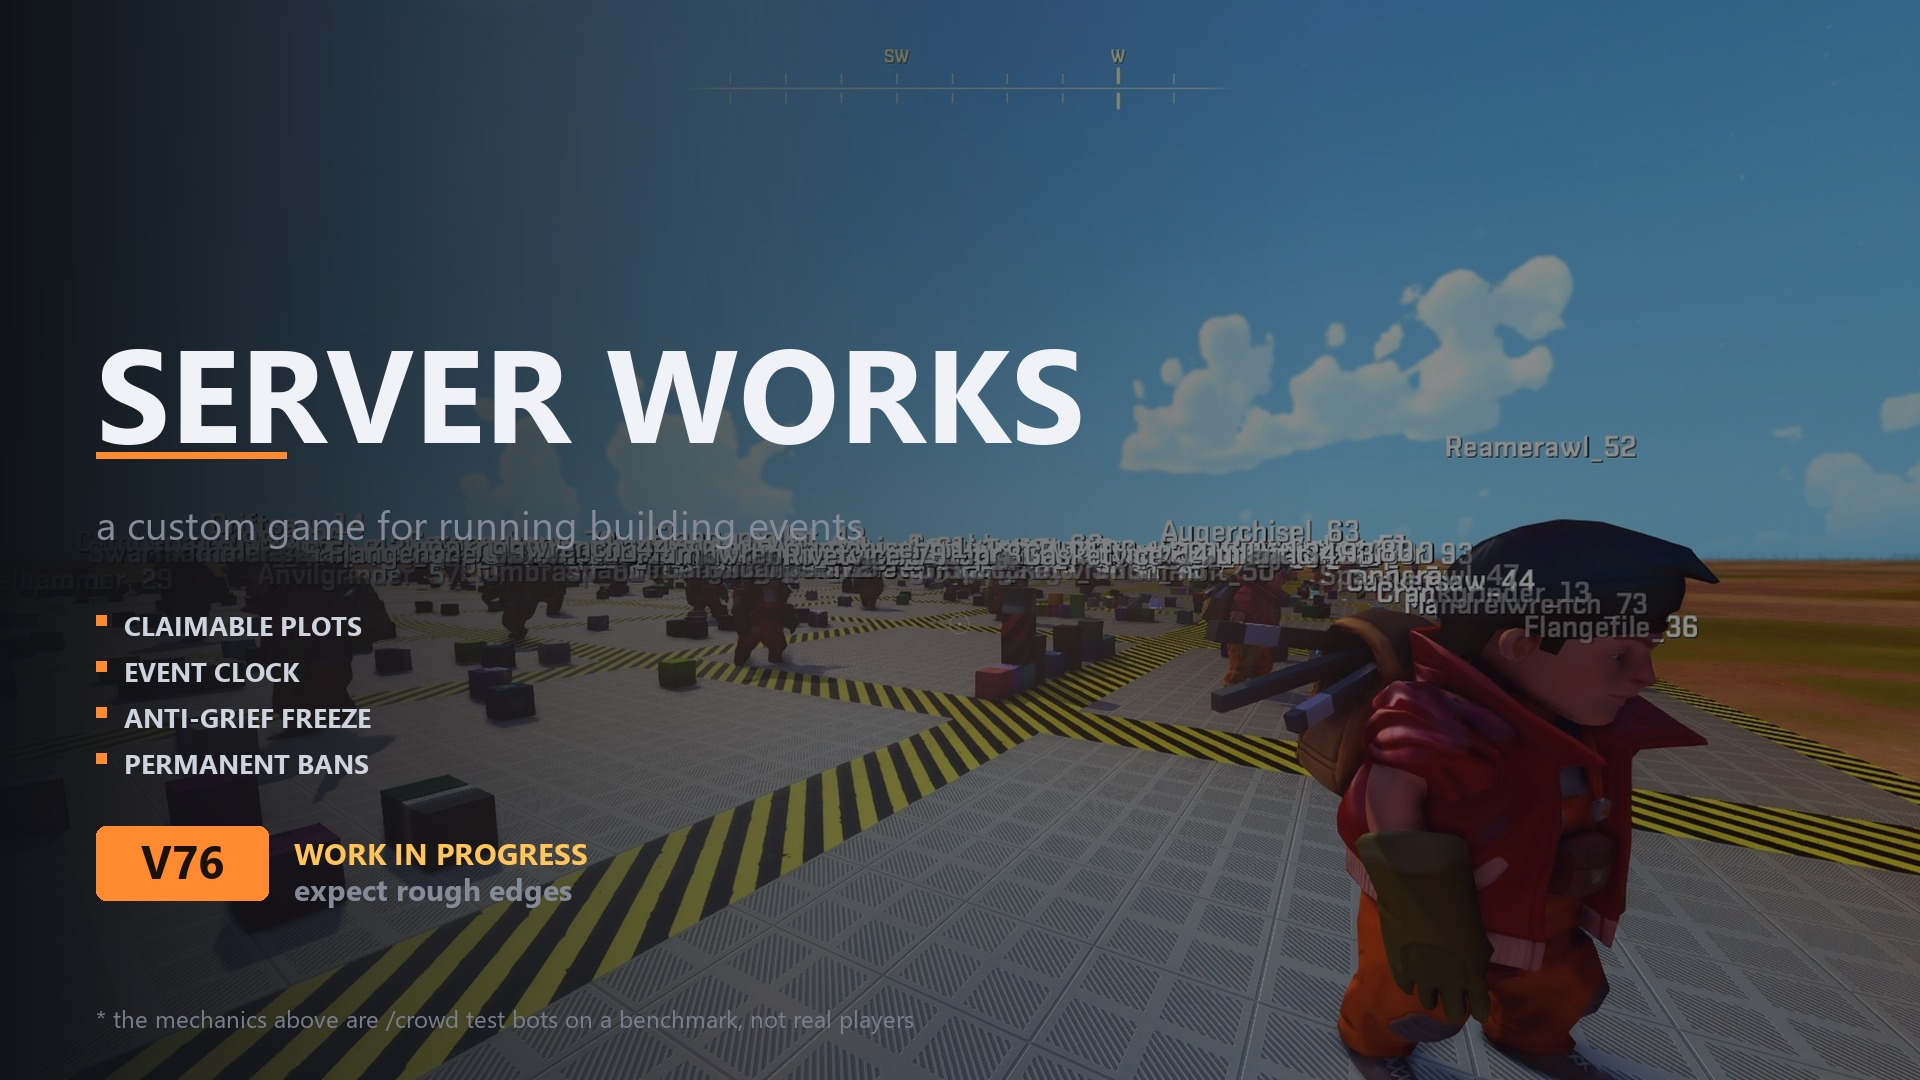
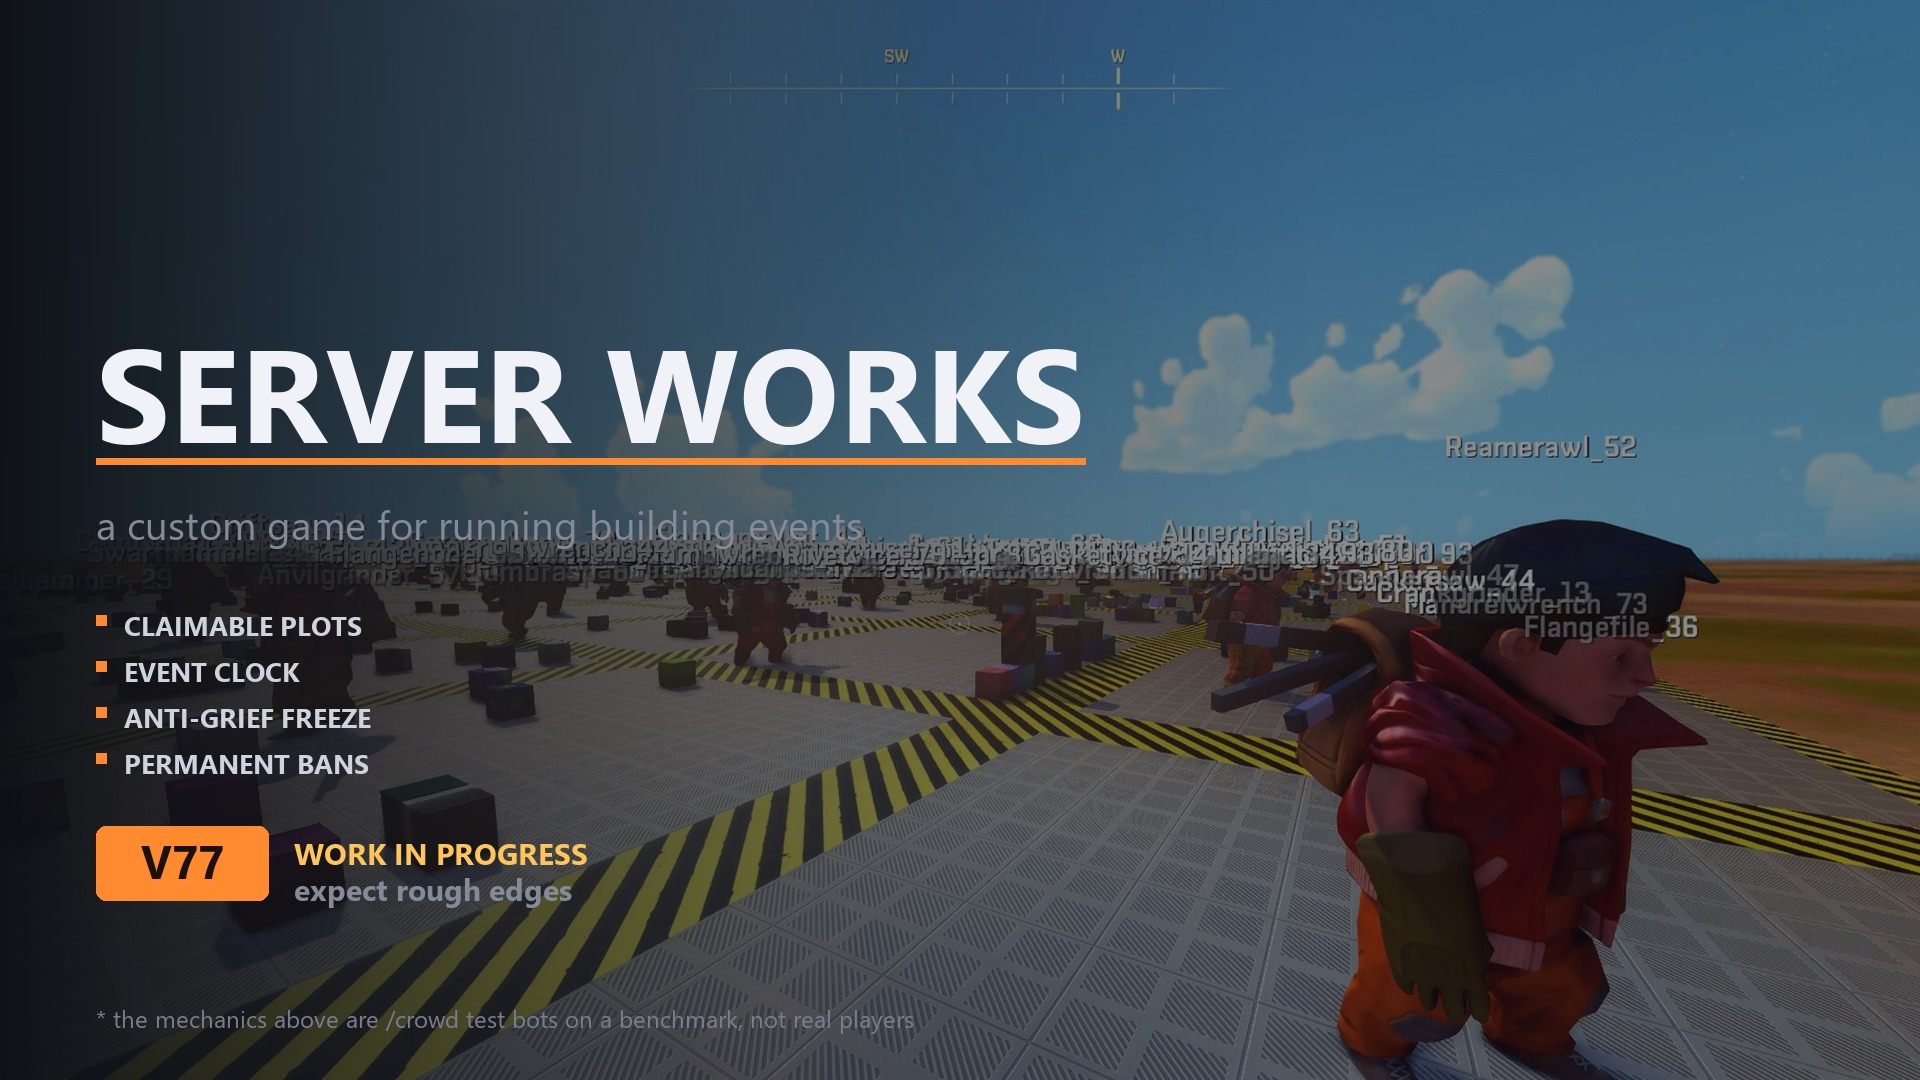
V77: HOW THIS WORKS did nothing -- the scripts were never loaded
REPORTED with a screenshot: "teh button does nothing."

Tutorial.lua and TutorialGui.lua were never added to Game.luas dofile list.
The menu entry, the router branch, the opener and the panel were all wired
correctly and 222 checks passed -- the server handler reached for a nil global,
threw inside a network callback, and the button did nothing with nothing in the
log to say why.

Nothing in the suite could see it, and that is the point of the new check:
every other check loads the scripts it needs by name through fresh(), so the
panel built perfectly in the harness and did not exist in the game. The
harnesss own loading is not evidence about the mods.

every_script_is_actually_loaded scans every dofile, the toolset, the
characterset and config.json, and fails on any script nothing pulls in. Only
Game.lua and Player.lua are exempt -- World.lua is named by Game.lua, so it
stays in the scan. Verified by removing the two dofiles again.

This is the mirror of the orphaned Wardrobe.lua in CLAUDE.md: that was a file
the game loaded and the repo had deleted; this is a file the repo has and the
game never loads. Both silent, both cost a session.

Also: the preview underline was a fixed 190px under a 990px title, so it
underlined "SE". It is measured from the title now.

223 checks.

Claude-Session: https://claude.ai/code/session_012wUcQDqVAQtXsQgfgkgwKb

Changed region(s): [[0.0312, 0.3972, 0.5625, 0.4583], [0.0938, 0.7639, 0.125, 0.825]]

diff --git a/dev/test_logic.py b/dev/test_logic.py
@@ -9089,6 +9089,68 @@ def the_tutorial_panel_fits_every_page():
             "the canvas is 720 units and this one is already 660")
 
 
+def every_script_is_actually_loaded():
+    """A FILE THAT EXISTS AND IS NEVER LOADED IS A BUTTON THAT DOES NOTHING.
+
+    REPORTED, with a screenshot of the menu: "teh button does nothing."
+
+    HOW THIS WORKS was wired end to end -- menu entry, router branch, opener,
+    panel, 222 checks passing -- and `Tutorial.lua` and `TutorialGui.lua` were
+    never added to Game.lua's dofile list. The server handler reached for a nil
+    global, threw inside a network callback, and the button did nothing at all
+    with nothing in the log to say why.
+
+    NOTHING IN THE SUITE COULD SEE IT, and that is the point of this check. Every
+    other check loads the scripts it needs by name through `fresh()`, so the
+    panel built perfectly in the harness and did not exist in the game. The
+    harness's own loading is not evidence about the mod's.
+
+    This is the mirror of the orphaned Wardrobe.lua in CLAUDE.md -- that was a
+    file the game loaded and the repo had deleted; this is a file the repo has
+    and the game never loads. Both are silent, and both cost a session.
+    """
+    import json
+
+    MOD = SCRIPTS.parent
+
+    # Everything that can pull a script in, and they are not all Lua.
+    text = ""
+    for f in SCRIPTS.glob("*.lua"):
+        text += io.open(f, encoding="utf-8").read()
+    for extra in (MOD / "config.json",):
+        if extra.is_file():
+            text += io.open(extra, encoding="utf-8", errors="replace").read()
+    for pattern in ("Tools/**/*.json", "Tools/**/*.toolset", "Tools/**/*.tooldb",
+                    "Characters/**/*.json", "Characters/**/*.characterset",
+                    "Objects/**/*.json"):
+        for f in MOD.glob(pattern):
+            text += io.open(f, encoding="utf-8", errors="replace").read()
+
+    orphans = []
+    for f in sorted(SCRIPTS.glob("*.lua")):
+        # Only the TWO config.json names are exempt. World.lua is not one of
+        # them -- Game.lua names it when it creates the world -- so it stays in
+        # the scan, which is stricter than exempting it would have been.
+        if f.stem in ("Game", "Player"):
+            continue
+        if f.name not in text:
+            orphans.append(f.name)
+
+    assert not orphans, (
+        "these scripts are in the mod and NOTHING loads them -- no dofile, no "
+        "toolset, no characterset. Anything that reaches for what they define "
+        "gets nil and fails silently: " + ", ".join(orphans))
+
+    # ...and the entry points really are named where the game looks for them.
+    cfg = MOD / "config.json"
+    if cfg.is_file():
+        raw = io.open(cfg, encoding="utf-8-sig").read()
+        for stem in ("Game", "Player"):
+            assert stem in raw, (
+                f"{stem}.lua is not named in config.json, so the game never "
+                "runs it at all")
+
+
 def the_ban_ui_is_on_the_menu(): 
     """ASKED FOR TWICE. "make it accesible via menu", and then, with a
     screenshot of a menu that did not have it: "where is the ban? I want the ban
@@ -9742,6 +9804,7 @@ def main():
     check("plumbing: every command a panel sends is answered",
           every_command_a_panel_sends_is_answered)
     check("plumbing: every button reaches a branch", every_button_reaches_a_branch)
+    check("plumbing: every script is actually loaded", every_script_is_actually_loaded)
     check("menu: every command is on the menu", every_command_is_on_the_menu)
     check("menu: the dev tools are off it until somebody asks",
           the_dev_tools_are_off_the_menu_until_somebody_asks_for_them)

diff --git a/dev/make_preview.py b/dev/make_preview.py
@@ -291,7 +291,12 @@ def main():
 
     x = 96
     d.text((x, 300), TITLE, font=f_title, fill=TEXT)
-    d.rectangle([x, 452, x + 190, 458], fill=ACCENT)
+
+    # THE RULE IS MEASURED FROM THE TITLE, not a number that happened to look
+    # right once. It was a fixed 190px under a title around 990px wide, so it
+    # underlined "SE" and read as a rendering fault rather than a flourish.
+    tb = d.textbbox((x, 300), TITLE, font=f_title)
+    d.rectangle([x, 458, tb[2], 464], fill=ACCENT)
     d.text((x, 496), TAGLINE, font=f_tag, fill=MUTED)
 
     y = 606
